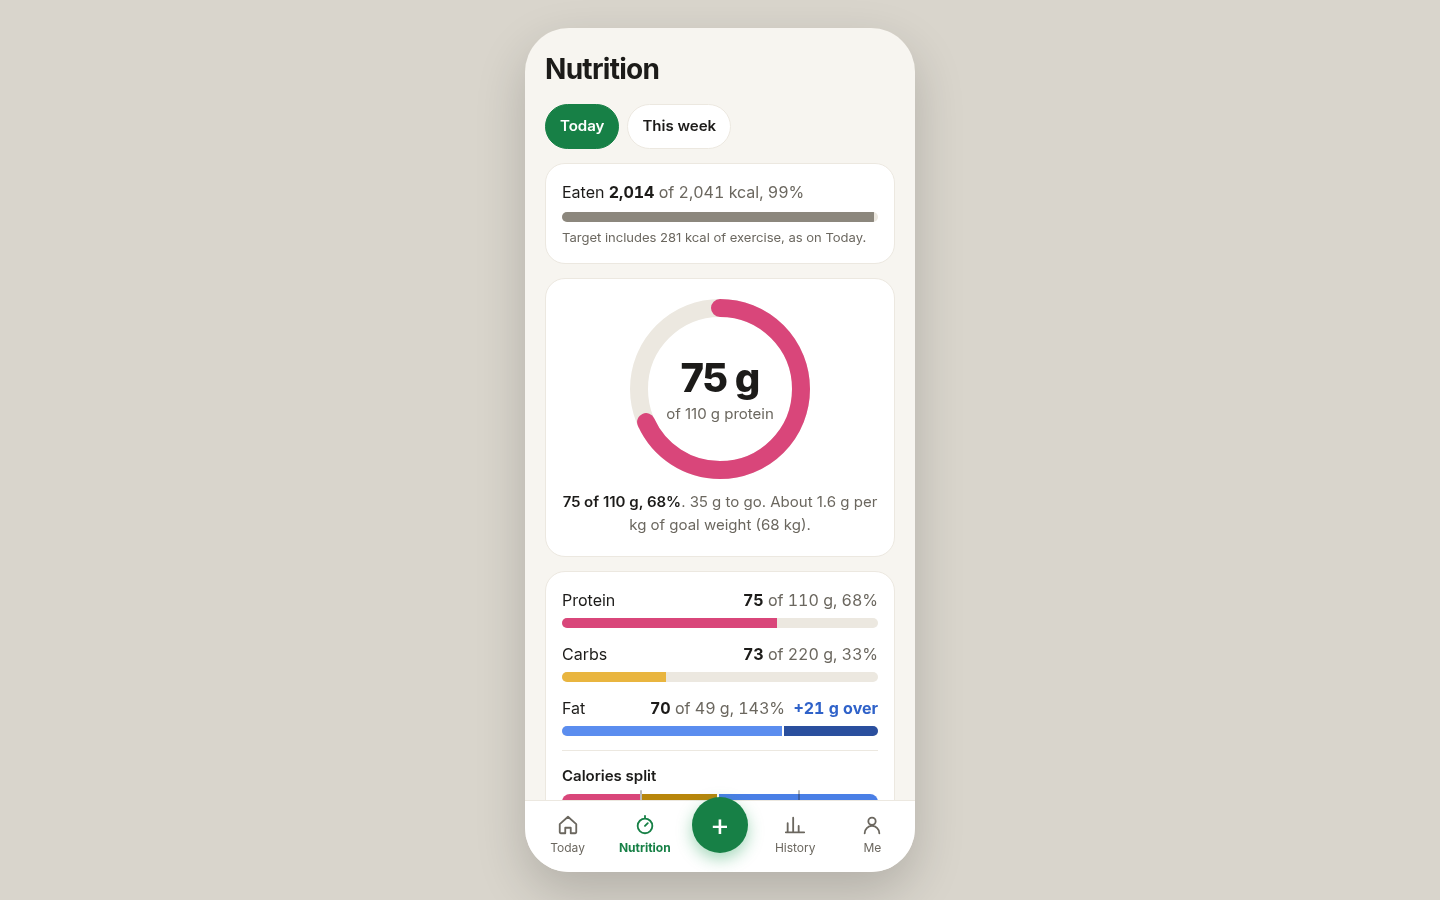
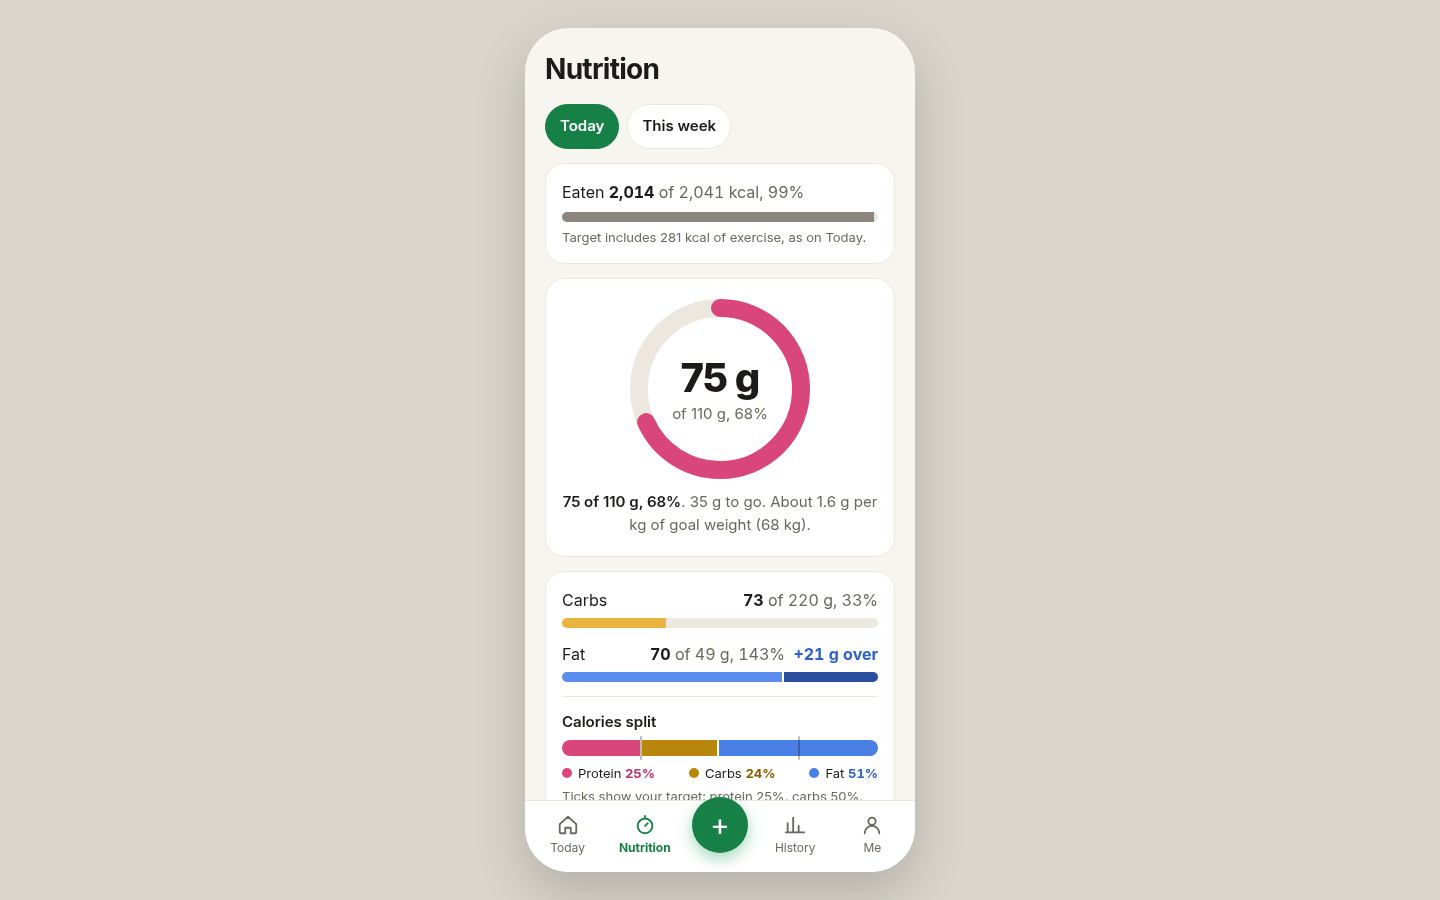
v1.2.1: protein only in the Nutrition ring (label carries %), Home with Movement off counts base burn BMR x 1.2 (Keep goal 0, Lose goal 384)

Changed region(s): [[0.375, 0.6533, 0.625, 0.9022], [0.4688, 0.4356, 0.5312, 0.4667]]

diff --git a/src/lib/calc.ts b/src/lib/calc.ts
@@ -159,8 +159,9 @@ export const targetFloor = (sex: Sex | string | undefined) => (sex === 'male' ? 
  * Keep: the plan base.
  * Floor (v1.2): never under 1,500 kcal (men) / 1,200 (women). With Movement on the v1.1 BMR floor is kept as well,
  * so nothing changes there. The macro carb floor can still raise the target.
- * dailyGoal is the balance goal against what Home counts (BMR + movement): BMR + movement - target.
  * planDeficit is what the plan takes off its base (base - target, negative for a surplus).
+ * dailyGoal is the balance goal against what Home counts as the burn (homeBase): since v1.2.1 Home counts the plan
+ * base too (BMR x 1.2 "base burn" with Movement off), so dailyGoal = planDeficit. Keep = 0, Lose = the deficit.
  */
 export function dailyPlan(p: PlanInput) {
   const movement = movementKcal(p)
@@ -177,7 +178,7 @@ export function dailyPlan(p: PlanInput) {
   const m = macroPlan(target, p.goalWeightKg, p.macros)
   return {
     bmr: p.bmr, movement, base, planBase: Math.round(planBase), planDeficit: Math.round(planBase) - m.target, floor, floored,
-    target: m.target, dailyGoal: base - m.target, protein: m.protein, carbs: m.carbs, fat: m.fat, adjusted: m.adjusted,
+    target: m.target, dailyGoal: Math.round(planBase) - m.target, protein: m.protein, carbs: m.carbs, fat: m.fat, adjusted: m.adjusted,
     capped: p.goal !== 'keep' && want > cap,
   }
 }
@@ -204,22 +205,38 @@ export function movementKcal(p: Pick<Profile, 'bmr' | 'activity' | 'includeMovem
 /** Food target on a rest day (v1.1: from the pace, see dailyPlan). */
 export const foodBudget = (p: PlanInput): number => dailyPlan(p).target
 
-export type DayBalance = { bmr: number; movement: number; burned: number; eaten: number; balance: number; goal: number; protein: number; logged: boolean }
+/**
+ * v1.2.1: what Home counts as the day's burn before exercise. Movement on: BMR + movement. Movement off: the
+ * "base burn" BMR x 1.2, the same base the food target is planned from, so Home and the target agree.
+ */
+export function homeBase(p: Pick<Profile, 'bmr' | 'activity' | 'includeMovement'>): number {
+  return p.includeMovement ? p.bmr + movementKcal(p) : Math.round(p.bmr * NO_MOVEMENT_FACTOR)
+}
+
+/**
+ * baseBurn is set (BMR x 1.2) on days counted with Movement off since v1.2.1; it replaces BMR + movement in the
+ * balance. Days closed before v1.2.1 have no baseBurn and keep the BMR (+ movement) numbers they were closed with.
+ */
+export type DayBalance = { bmr: number; movement: number; baseBurn?: number; burned: number; eaten: number; balance: number; goal: number; protein: number; logged: boolean }
+
+/** Burn before exercise for a day: the base burn when set, else BMR + movement. */
+export const dayBase = (d: Pick<DayBalance, 'bmr' | 'movement' | 'baseBurn'>) => d.baseBurn ?? d.bmr + d.movement
 
 export function sumExercise(list: ExerciseEntry[]): number {
   return list.reduce((s, e) => s + e.kcal, 0)
 }
 
-/** Live balance for a date from the current profile: BMR + movement + burned - eaten. */
+/** Live balance for a date from the current profile: home base (BMR + movement, or base burn) + burned - eaten. */
 export function liveDay(state: Pick<State, 'entries' | 'exercises'>, profile: Profile, date: string): DayBalance {
   const entries = state.entries.filter((e) => e.date === date)
   const ex = state.exercises.filter((e) => e.date === date)
   const m = sumEntries(entries)
   const burned = sumExercise(ex)
   const movement = movementKcal(profile)
+  const base = homeBase(profile)
   return {
-    bmr: profile.bmr, movement, burned, eaten: m.kcal, protein: m.protein,
-    balance: profile.bmr + movement + burned - m.kcal, goal: profile.dailyGoal,
+    bmr: profile.bmr, movement, ...(profile.includeMovement ? {} : { baseBurn: base }), burned, eaten: m.kcal, protein: m.protein,
+    balance: base + burned - m.kcal, goal: profile.dailyGoal,
     logged: entries.length + ex.length > 0,
   }
 }
@@ -232,8 +249,8 @@ export function dayView(state: State, date: string): DayBalance & { closed: DayS
 }
 
 export function summarise(d: DayBalance, auto: boolean): DaySummary {
-  const { bmr, movement, burned, eaten, balance, goal, protein } = d
-  return { bmr, movement, burned, eaten, balance, goal, protein, closedAt: Date.now(), auto }
+  const { bmr, movement, baseBurn, burned, eaten, balance, goal, protein } = d
+  return { bmr, movement, ...(baseBurn != null ? { baseBurn } : {}), burned, eaten, balance, goal, protein, closedAt: Date.now(), auto }
 }
 
 /** "Deficit 420 kcal" / "Surplus 180 kcal" / "Even" */

diff --git a/src/components/BalanceRing.tsx b/src/components/BalanceRing.tsx
@@ -45,8 +45,11 @@ export function BalanceRing({ balance, goal, size = 190, stroke = 17, closed = f
   )
 }
 
-/** BMR + Movement + Exercise - Eaten = Balance. Movement is null when the daily movement setting is off. */
-export function Equation({ bmr, movement, burned, eaten, balance }: { bmr: number; movement: number | null; burned: number; eaten: number; balance: number }) {
+/**
+ * BMR + Movement + Exercise - Eaten = Balance. Movement is null when the daily movement setting is off.
+ * v1.2.1: with baseBurn (Movement off) the first term is "Base burn" (BMR x 1.2) instead of BMR, so the numbers add up.
+ */
+export function Equation({ bmr, movement, baseBurn, burned, eaten, balance }: { bmr: number; movement: number | null; baseBurn?: number; burned: number; eaten: number; balance: number }) {
   const surplus = Math.round(balance) < 0
   const item = (label: string, v: string, id: string, cls = 'text-ink') => (
     <div className="text-center" data-term={label}>
@@ -56,9 +59,9 @@ export function Equation({ bmr, movement, burned, eaten, balance }: { bmr: numbe
   )
   const op = (s: string) => <span className="text-[16px] text-mute" aria-hidden="true">{s}</span>
   return (
-    <div className="mt-2.5 flex items-center justify-between text-[12px] text-mute" data-testid="equation" aria-label={`BMR ${fmt(bmr)}${movement != null ? ` plus movement ${fmt(movement)}` : ''} plus exercise ${fmt(burned)} minus eaten ${fmt(eaten)} equals balance ${fmt(Math.abs(balance))} ${surplus ? 'surplus' : 'deficit'}`} role="group">
-      {item('BMR', fmt(bmr), 'eq-bmr')}
-      {movement != null && <>{op('+')}{item('Movement', fmt(movement), 'eq-movement')}</>}
+    <div className="mt-2.5 flex items-center justify-between text-[12px] text-mute" data-testid="equation" aria-label={`${baseBurn != null ? `Base burn ${fmt(baseBurn)}, BMR ${fmt(bmr)} times 1.2,` : `BMR ${fmt(bmr)}`}${baseBurn == null && movement != null ? ` plus movement ${fmt(movement)}` : ''} plus exercise ${fmt(burned)} minus eaten ${fmt(eaten)} equals balance ${fmt(Math.abs(balance))} ${surplus ? 'surplus' : 'deficit'}`} role="group">
+      {baseBurn != null ? item('Base burn', fmt(baseBurn), 'eq-base') : item('BMR', fmt(bmr), 'eq-bmr')}
+      {baseBurn == null && movement != null && <>{op('+')}{item('Movement', fmt(movement), 'eq-movement')}</>}
       {op('+')}
       {item('Exercise', fmt(burned), 'eq-burned', 'text-ex-ink')}
       {op('−')}

diff --git a/src/pages/Nutrition.tsx b/src/pages/Nutrition.tsx
@@ -25,7 +25,7 @@ function ProteinRing({ value, target, size = 180, stroke = 18 }: { value: number
       </svg>
       <div className="absolute inset-0 flex flex-col items-center justify-center" aria-hidden="true">
         <div className="text-[40px] font-extrabold leading-tight tracking-tight">{fmt(value)} g</div>
-        <div className="text-[15px] text-mute">of {fmt(target)} g protein</div>
+        <div className="text-[15px] text-mute" data-testid="protein-ring-label">of {fmt(target)} g, {pctOf(value, target)}%</div>
       </div>
     </div>
   )
@@ -39,7 +39,7 @@ const TONE: Record<MacroTone, { bar: string; deep: string; ink: string }> = {
 }
 
 /**
- * Macro row: "Carbs 75 of 109 g, 69%". Over target the bar rescales to the total: the part past the target is a
+ * Macro row (carbs, fat): "Carbs 75 of 109 g, 69%". Over target the bar rescales to the total: the part past the target is a
  * darker shade, with a tick at the target, and the row adds "+X g over".
  */
 function Bar({ label, value, target, tone, id }: { label: string; value: number; target: number; tone: MacroTone; id: string }) {
@@ -191,6 +191,7 @@ export default function Nutrition() {
         </div>
         <CaloriesCard eaten={per.kcal} target={t.target + Math.round(burned)} exercise={Math.round(burned)} week={range === 'week'} />
         <Card className="flex flex-col items-center gap-3 py-5 text-center">
+          {/* v1.2.1: protein lives in the ring only (no macro row); its label carries the % ("75 of 109 g, 69%"). */}
           <ProteinRing value={p} target={t.protein} />
           <p className="text-[15px] text-mute">
             <span className="font-semibold text-ink" data-testid="protein-progress">{fmt(p)} of {fmt(t.protein)} g, {pctP}%</span>
@@ -199,7 +200,6 @@ export default function Nutrition() {
           </p>
         </Card>
         <Card className="flex flex-col gap-3.5">
-          <Bar label="Protein" value={p} target={t.protein} tone="protein" id="nutri-protein" />
           <Bar label="Carbs" value={per.carbs} target={t.carbs} tone="carbs" id="nutri-carbs" />
           <Bar label="Fat" value={per.fat} target={t.fat} tone="fat" id="nutri-fat" />
           <SplitBar grams={{ protein: per.protein, carbs: per.carbs, fat: per.fat }} targets={t} />

diff --git a/src/pages/Verdict.tsx b/src/pages/Verdict.tsx
@@ -30,8 +30,10 @@ export default function Verdict() {
       <div className="text-xl font-bold" data-testid="verdict-text" aria-hidden="true">{b === 0 ? 'kcal, even' : `kcal ${surplus ? 'surplus' : 'deficit'}`}</div>
       <p className="max-w-[280px] text-[15px] text-mute" data-testid="verdict-message">{goalMessage(d.balance, d.goal, true)}</p>
       <Card className="w-full py-0 text-left">
-        <div className={row}><span>BMR</span><b className="font-semibold tabular-nums">{fmt(d.bmr)}</b></div>
-        {d.movement > 0 && <div className={row}><span>Daily movement</span><b className="font-semibold tabular-nums">+ {fmt(d.movement)}</b></div>}
+        {d.baseBurn != null ? (
+          <div className={row}><span>Base burn <span className="text-mute">(BMR {fmt(d.bmr)} × 1.2)</span></span><b className="font-semibold tabular-nums" data-testid="verdict-base">{fmt(d.baseBurn)}</b></div>
+        ) : <div className={row}><span>BMR</span><b className="font-semibold tabular-nums" data-testid="verdict-bmr">{fmt(d.bmr)}</b></div>}
+        {d.baseBurn == null && d.movement > 0 && <div className={row}><span>Daily movement</span><b className="font-semibold tabular-nums">+ {fmt(d.movement)}</b></div>}
         <div className={row}><span>Exercise burned</span><b className="font-semibold tabular-nums text-ex-ink">+ {fmt(d.burned)}</b></div>
         <div className={row}><span>Food eaten</span><b className="font-semibold tabular-nums">− {fmt(d.eaten)}</b></div>
         <div className={row}><b>Balance</b><b className={`tabular-nums ${tone}`} data-testid="verdict-balance">{b === 0 ? 'even' : `${fmt(Math.abs(b))} ${surplus ? 'surplus' : 'deficit'}`}</b></div>

diff --git a/src/lib/types.ts b/src/lib/types.ts
@@ -32,7 +32,7 @@ export type Profile = {
   bmrCustom: boolean
   /** Add NEAT (BMR x (activity factor - 1)) to the daily budget. */
   includeMovement: boolean
-  /** Daily balance goal in kcal, derived: BMR + movement - target. Positive = deficit (lose), 0 = keep, negative = surplus (gain). */
+  /** Daily balance goal in kcal, derived: home base (BMR + movement, or BMR x 1.2 with movement off) - target. Positive = deficit (lose), 0 = keep, negative = surplus (gain). */
   dailyGoal: number
   /** v1.1: goal weight (kg) used for protein and the fat floor. Defaults to the current weight. */
   goalWeightKg: number
@@ -71,6 +71,8 @@ export type ExerciseEntry = {
 export type DaySummary = {
   bmr: number
   movement: number
+  /** v1.2.1: BMR x 1.2 when the day was counted with Movement off. Absent on older days (they used BMR + movement). */
+  baseBurn?: number
   burned: number
   eaten: number
   balance: number // positive = deficit

diff --git a/src/pages/Home.tsx b/src/pages/Home.tsx
@@ -62,7 +62,7 @@ export default function Home() {
             </div>
           )}
           <BalanceRing balance={day.balance} goal={day.goal} closed={closed} />
-          <Equation bmr={day.bmr} movement={profile.includeMovement ? day.movement : null} burned={burned} eaten={day.eaten} balance={day.balance} />
+          <Equation bmr={day.bmr} baseBurn={day.baseBurn} movement={day.baseBurn == null && (day.closed ? day.movement > 0 : profile.includeMovement) ? day.movement : null} burned={burned} eaten={day.eaten} balance={day.balance} />
           <p className="mt-2.5 text-center text-[15px] text-mute" data-testid="goal-progress">{goalMessage(day.balance, day.goal, closed)}</p>
         </Card>
         <ProteinCard totals={totals} targets={macroTargets(profile)} />

diff --git a/src/components/BalanceChart.tsx b/src/components/BalanceChart.tsx
@@ -18,7 +18,7 @@ export function BalanceChart({ bars, goal, height = 220 }: { bars: BalanceBar[];
   const half = plotH / 2
   const zero = top + half
   const vals = bars.flatMap((b) => (b.value == null ? [] : [b.value]))
-  // An open day starts at the full BMR + movement and shrinks as food is logged, so it would inflate the scale
+  // An open day starts at the full burn (BMR + movement, or the base burn) and shrinks as food is logged, so it would inflate the scale
   // every morning. Scale from closed days when there are any; an open bar past the scale is clipped like a spike.
   const closed = bars.flatMap((b) => (b.value == null || b.open ? [] : [b.value]))
   const S = balanceScale(closed.length ? closed : vals, goal)

diff --git a/scripts/sw-plugin.ts b/scripts/sw-plugin.ts
@@ -6,7 +6,7 @@ import { join, relative } from 'node:path'
 import type { Plugin } from 'vite'
 
 // Bumped per release (v1.1: new storage key and formulas). The content hash below changes on every build anyway.
-export const APP_VERSION = 'v1.2'
+export const APP_VERSION = 'v1.2.1'
 
 const walk = (dir: string): string[] =>
   readdirSync(dir).flatMap((f) => (statSync(join(dir, f)).isDirectory() ? walk(join(dir, f)) : [join(dir, f)]))
